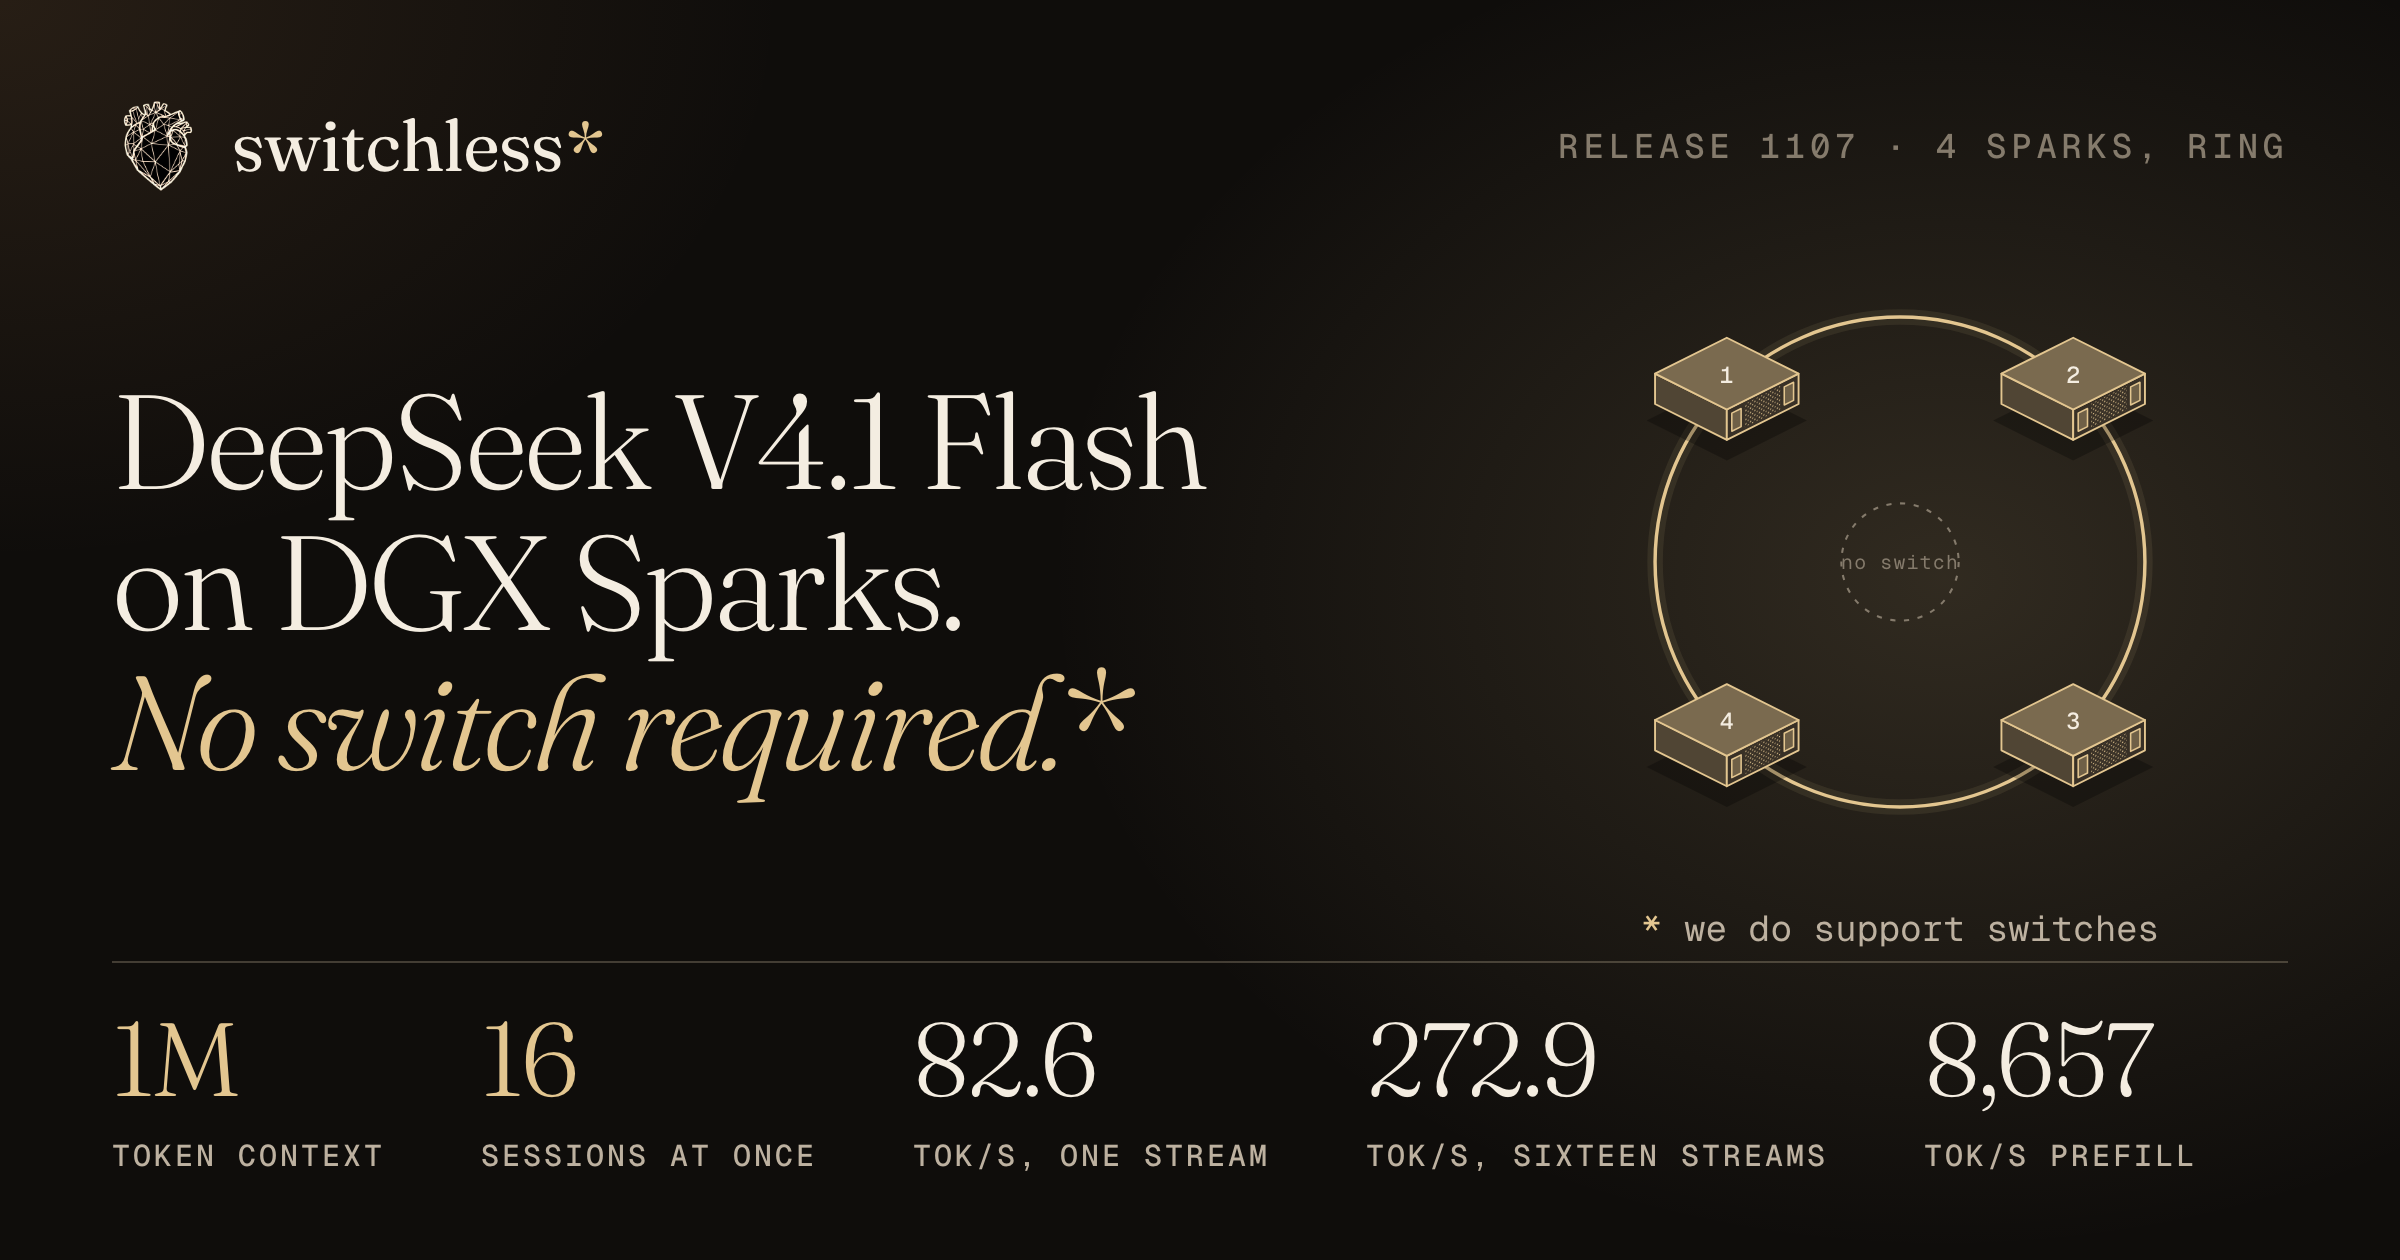
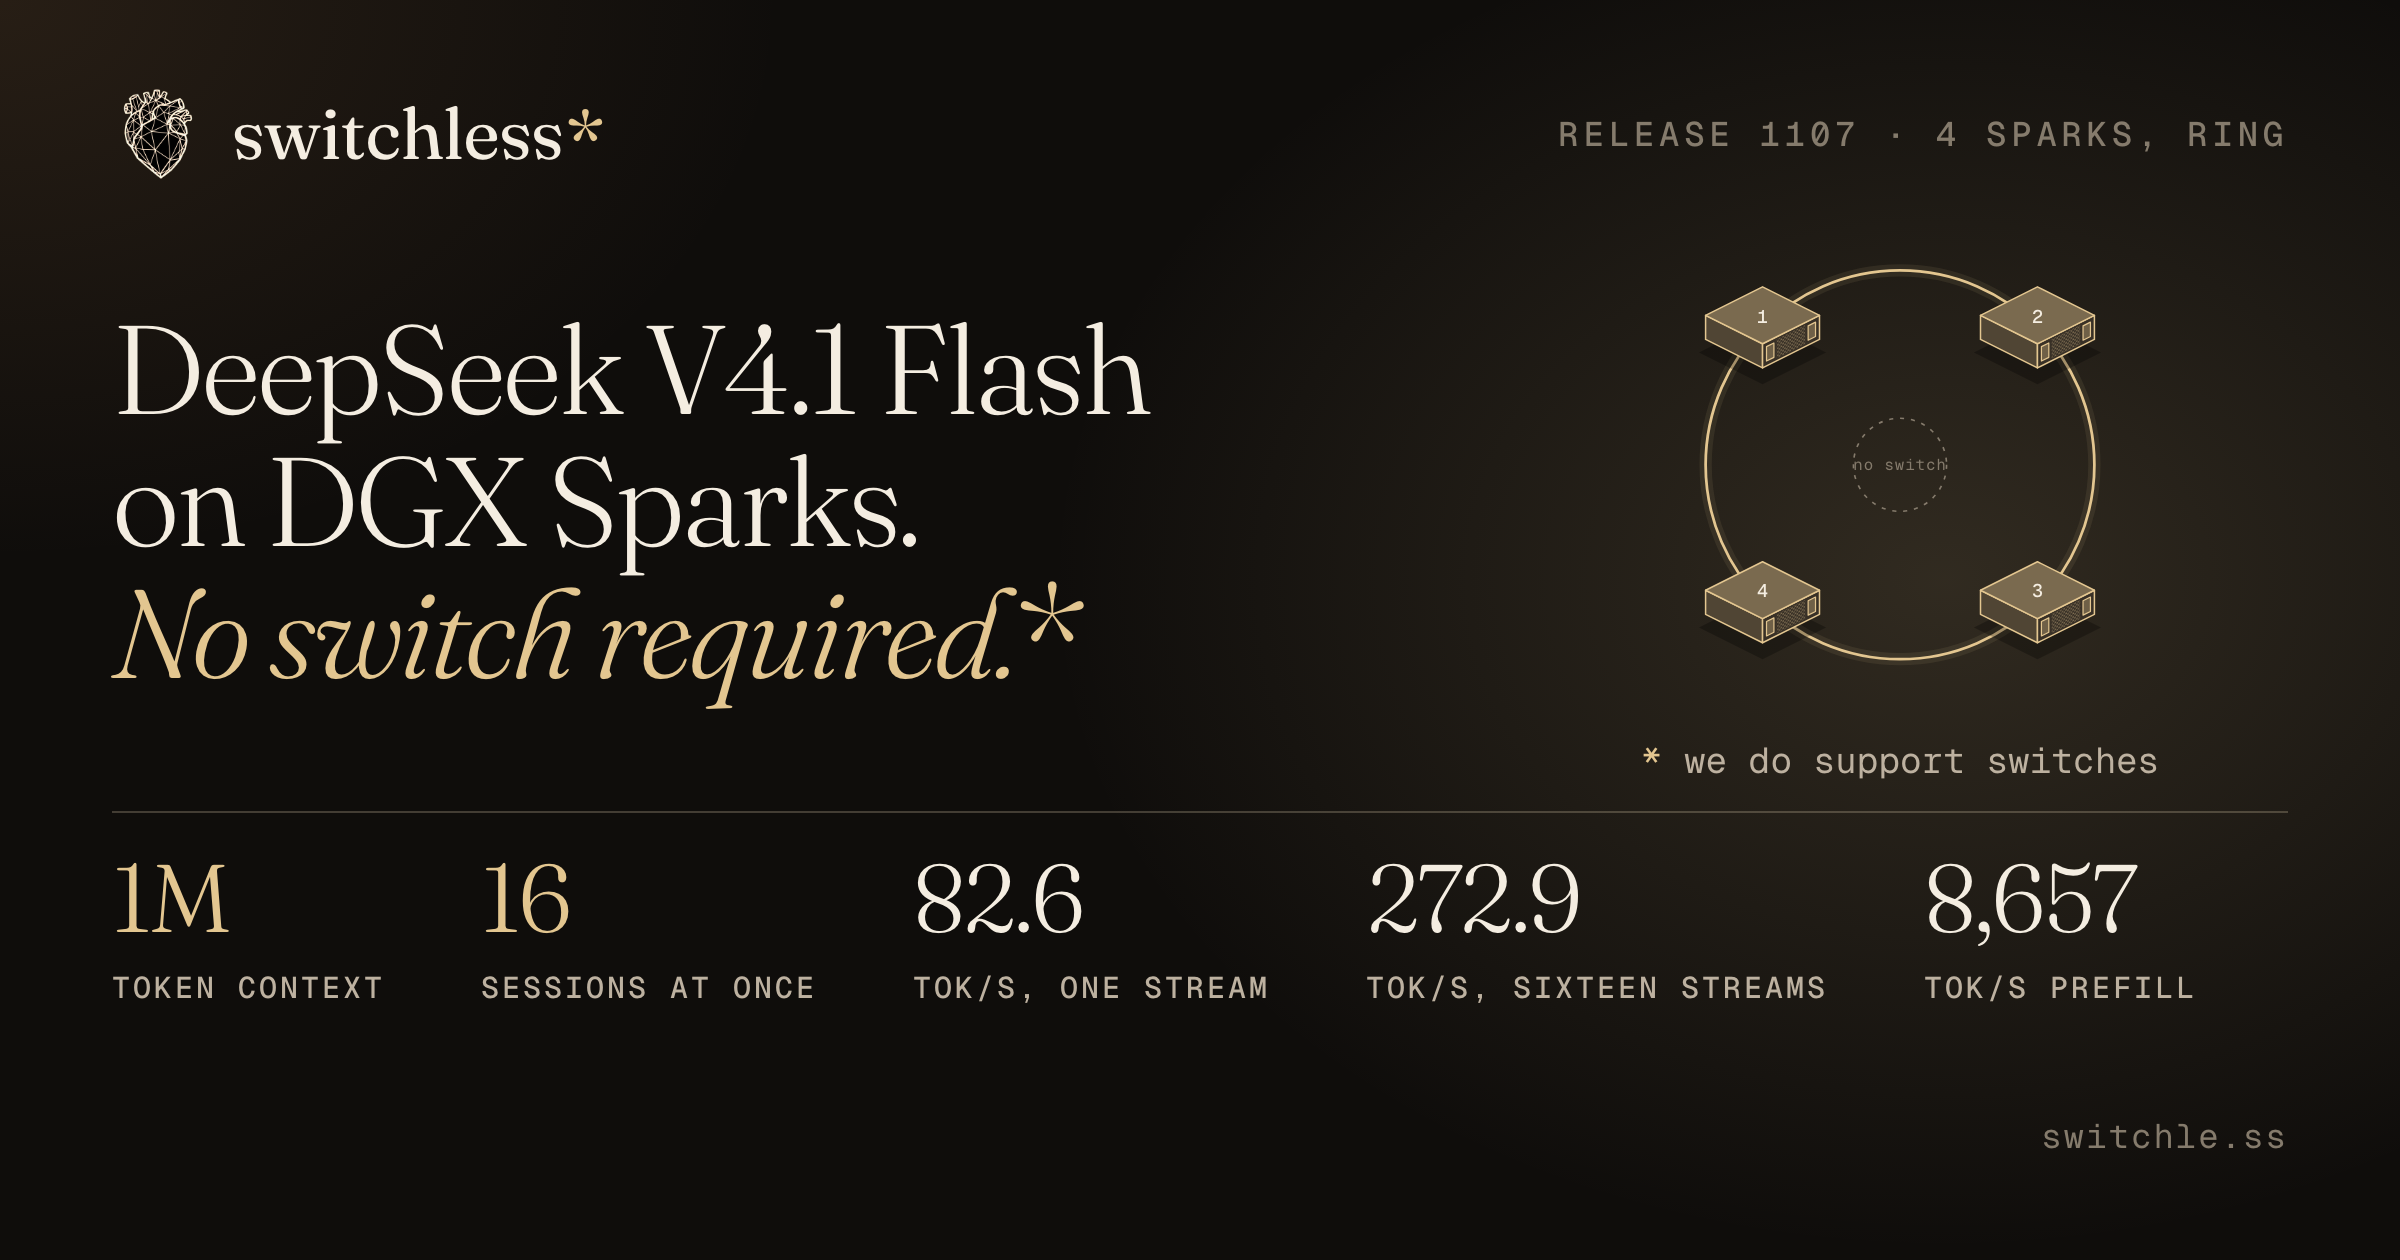
docs(site): keep the link card's figures clear of X's title label
X lays the page title over the bottom-left of a card image, and it covered
the labels under the card's figures. The card's last row (124 of 630 px) is
now left free of anything that matters: the headline, diagram and figures
move up and tighten slightly, and the row holds only a dim "switchle.ss" at
the right. On desktop the label measured about the bottom tenth of the image
across the left half; a phone's is proportionally taller and wider, so the
reserve is a fifth of the height, full width.

docs/og.png, the committed fallback, is re-rendered with the new layout.

diff --git a/docs/index.html b/docs/index.html
@@ -10,7 +10,7 @@
   <meta property="og:type" content="website">
   <meta property="og:url" content="https://switchle.ss/">
   <meta property="og:site_name" content="switchless">
-  <meta property="og:image" content="https://switchle.ss/og.png?v=79dad14a83">
+  <meta property="og:image" content="https://switchle.ss/og.png?v=4b7e12df85">
   <meta property="og:image:type" content="image/png">
   <meta property="og:image:width" content="2400">
   <meta property="og:image:height" content="1260">
@@ -18,7 +18,7 @@
   <meta name="twitter:card" content="summary_large_image">
   <meta name="twitter:title" content="switchless* · DeepSeek V4.1 Flash on DGX Spark">
   <meta name="twitter:description" content="Native weights, a million tokens of context, correctness first, then speed. No switch required.*">
-  <meta name="twitter:image" content="https://switchle.ss/og.png?v=79dad14a83">
+  <meta name="twitter:image" content="https://switchle.ss/og.png?v=4b7e12df85">
   <meta name="theme-color" content="#0f0d0b">
   <link rel="icon" type="image/png" href="logo.png">
   <link rel="preconnect" href="https://fonts.googleapis.com">
@@ -378,8 +378,10 @@
     html.og-mode .cable { animation: none; stroke-dashoffset: 0; }
     html.og-mode .node { animation: none; }
     html.og-mode .og {
-      display: grid; grid-template-columns: 700px minmax(0, 1fr); grid-template-rows: auto minmax(0, 1fr) auto;
-      width: 1200px; height: 630px; padding: 44px 56px 40px;
+      /* The last row stays free of anything that matters: X lays the page title over the
+         bottom-left of a card image, and on a phone that label reaches most of the way across. */
+      display: grid; grid-template-columns: 700px minmax(0, 1fr); grid-template-rows: auto minmax(0, 1fr) auto 124px;
+      width: 1200px; height: 630px; padding: 38px 56px 0;
       background:
         radial-gradient(640px 480px at 81% 46%, var(--glow), transparent 70%),
         radial-gradient(560px 400px at 0% 0%, color-mix(in srgb, var(--copper) 13%, transparent), transparent 70%),
@@ -389,14 +391,15 @@
     .og-brand img { width: 46px; height: 46px; }
     .og-brand .wordmark { font-size: 36px; }
     .og-brand .og-rel { margin-left: auto; font: 500 17px/1 var(--mono); letter-spacing: 0.14em; text-transform: uppercase; color: var(--ink-3); }
-    .og-h { align-self: center; font: 300 67px/1.05 var(--serif); letter-spacing: -0.025em; white-space: nowrap; }
+    .og-h { align-self: center; font: 300 63px/1.05 var(--serif); letter-spacing: -0.025em; white-space: nowrap; }
     .og-h em { color: var(--accent); }
-    .og-r { display: flex; flex-direction: column; align-items: center; justify-content: center; gap: 2px; }
-    #og-svg { width: 380px; height: 345px; }
+    .og-r { display: flex; flex-direction: column; align-items: center; justify-content: center; gap: 2px; padding-bottom: 16px; }
+    #og-svg { width: 316px; height: 287px; }
     .og-r .fn { font: 400 18px/1 var(--mono); color: var(--ink-2); }
-    .og-stats { grid-column: 1 / -1; display: flex; align-items: flex-end; gap: 48px; border-top: 1px solid var(--line-2); padding-top: 22px; white-space: nowrap; }
-    .og-stats b { display: block; font: 300 52px/1 var(--serif); letter-spacing: -0.02em; margin-bottom: 9px; }
+    .og-stats { grid-column: 1 / -1; display: flex; align-items: flex-end; gap: 48px; border-top: 1px solid var(--line-2); padding-top: 18px; white-space: nowrap; }
+    .og-stats b { display: block; font: 300 48px/1 var(--serif); letter-spacing: -0.02em; margin-bottom: 8px; }
     .og-stats .gold b { color: var(--accent); }
+    .og-base { grid-column: 1 / -1; display: flex; align-items: center; justify-content: flex-end; font: 400 17px/1 var(--mono); letter-spacing: 0.06em; color: var(--ink-3); }
     .og-stats span { font: 500 15px/1 var(--mono); letter-spacing: 0.1em; text-transform: uppercase; color: var(--ink-2); }
 
     .reveal { opacity: 0; transform: translateY(14px); transition: opacity 0.7s ease, transform 0.7s ease; }
@@ -460,6 +463,7 @@
       <div><b id="og-cn"></b><span id="og-cn-k">tok/s, sixteen streams</span></div>
       <div id="og-pf-box"><b id="og-pf"></b><span>tok/s prefill</span></div>
     </div>
+    <div class="og-base">switchle.ss</div>
   </div>
   <header class="nav">
     <div class="wrap nav-in">

diff --git a/site/index.html b/site/index.html
@@ -378,8 +378,10 @@
     html.og-mode .cable { animation: none; stroke-dashoffset: 0; }
     html.og-mode .node { animation: none; }
     html.og-mode .og {
-      display: grid; grid-template-columns: 700px minmax(0, 1fr); grid-template-rows: auto minmax(0, 1fr) auto;
-      width: 1200px; height: 630px; padding: 44px 56px 40px;
+      /* The last row stays free of anything that matters: X lays the page title over the
+         bottom-left of a card image, and on a phone that label reaches most of the way across. */
+      display: grid; grid-template-columns: 700px minmax(0, 1fr); grid-template-rows: auto minmax(0, 1fr) auto 124px;
+      width: 1200px; height: 630px; padding: 38px 56px 0;
       background:
         radial-gradient(640px 480px at 81% 46%, var(--glow), transparent 70%),
         radial-gradient(560px 400px at 0% 0%, color-mix(in srgb, var(--copper) 13%, transparent), transparent 70%),
@@ -389,14 +391,15 @@
     .og-brand img { width: 46px; height: 46px; }
     .og-brand .wordmark { font-size: 36px; }
     .og-brand .og-rel { margin-left: auto; font: 500 17px/1 var(--mono); letter-spacing: 0.14em; text-transform: uppercase; color: var(--ink-3); }
-    .og-h { align-self: center; font: 300 67px/1.05 var(--serif); letter-spacing: -0.025em; white-space: nowrap; }
+    .og-h { align-self: center; font: 300 63px/1.05 var(--serif); letter-spacing: -0.025em; white-space: nowrap; }
     .og-h em { color: var(--accent); }
-    .og-r { display: flex; flex-direction: column; align-items: center; justify-content: center; gap: 2px; }
-    #og-svg { width: 380px; height: 345px; }
+    .og-r { display: flex; flex-direction: column; align-items: center; justify-content: center; gap: 2px; padding-bottom: 16px; }
+    #og-svg { width: 316px; height: 287px; }
     .og-r .fn { font: 400 18px/1 var(--mono); color: var(--ink-2); }
-    .og-stats { grid-column: 1 / -1; display: flex; align-items: flex-end; gap: 48px; border-top: 1px solid var(--line-2); padding-top: 22px; white-space: nowrap; }
-    .og-stats b { display: block; font: 300 52px/1 var(--serif); letter-spacing: -0.02em; margin-bottom: 9px; }
+    .og-stats { grid-column: 1 / -1; display: flex; align-items: flex-end; gap: 48px; border-top: 1px solid var(--line-2); padding-top: 18px; white-space: nowrap; }
+    .og-stats b { display: block; font: 300 48px/1 var(--serif); letter-spacing: -0.02em; margin-bottom: 8px; }
     .og-stats .gold b { color: var(--accent); }
+    .og-base { grid-column: 1 / -1; display: flex; align-items: center; justify-content: flex-end; font: 400 17px/1 var(--mono); letter-spacing: 0.06em; color: var(--ink-3); }
     .og-stats span { font: 500 15px/1 var(--mono); letter-spacing: 0.1em; text-transform: uppercase; color: var(--ink-2); }
 
     .reveal { opacity: 0; transform: translateY(14px); transition: opacity 0.7s ease, transform 0.7s ease; }
@@ -460,6 +463,7 @@
       <div><b id="og-cn"></b><span id="og-cn-k">tok/s, sixteen streams</span></div>
       <div id="og-pf-box"><b id="og-pf"></b><span>tok/s prefill</span></div>
     </div>
+    <div class="og-base">switchle.ss</div>
   </div>
   <header class="nav">
     <div class="wrap nav-in">
